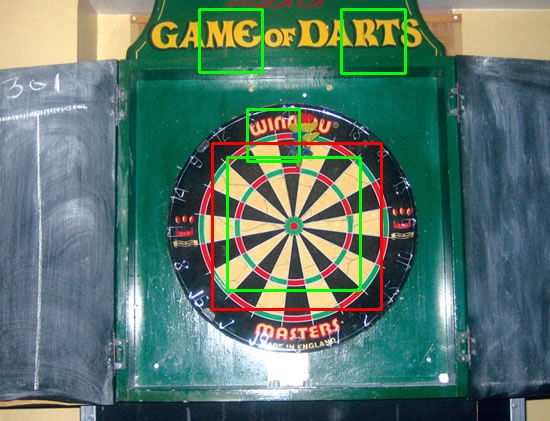
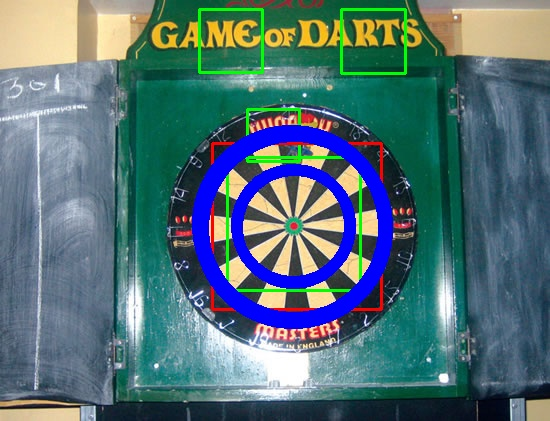
hough circle detection added
hough circle detection added

Changed region(s): [[0.34, 0.2779, 0.7418, 0.8029]]

diff --git a/dart.py b/dart.py
@@ -3,6 +3,7 @@ import cv2
 import os
 import sys
 import argparse
+import math
 
 parser = argparse.ArgumentParser(description='dart detection')
 parser.add_argument('-name', '-n', type=str, default='Dartboard/dart0.jpg')
@@ -91,7 +92,123 @@ def click_event(event, x, y, flags, param):
         print(f'Coordinates: ({x}, {y})')
 
 
+def sobel_x(input):
+    sobelxOutput = np.zeros((input.shape[0], input.shape[1]), dtype=np.float32)
+    kernel = np.array([[-1, 0, 1], [-2, 0, 2], [-1, 0, 1]])
+    kernelRadiusX = 1
+    kernelRadiusY = 1
+    paddedInput = cv2.copyMakeBorder(input, kernelRadiusX, kernelRadiusX, kernelRadiusY, kernelRadiusY,
+                                     cv2.BORDER_REPLICATE)
+
+    for i in range(0, input.shape[0]):
+        for j in range(0, input.shape[1]):
+            patch = paddedInput[i:i + 3, j:j + 3]
+            sum = (np.multiply(patch, kernel)).sum()
+            sobelxOutput[i, j] = sum
+
+    return sobelxOutput
+
+
+def sobel_y(input):
+    sobelyOutput = np.zeros((input.shape[0], input.shape[1]), dtype=np.float32)
+    kernel = np.array([[-1, -2, -1], [0, 0, 0], [1, 2, 1]])
+    kernelRadiusX = 1
+    kernelRadiusY = 1
+    paddedInput = cv2.copyMakeBorder(input, kernelRadiusX, kernelRadiusX, kernelRadiusY, kernelRadiusY,
+                                     cv2.BORDER_REPLICATE)
+
+    for i in range(0, input.shape[0]):
+        for j in range(0, input.shape[1]):
+            patch = paddedInput[i:i + 3, j:j + 3]
+            sum = (np.multiply(patch, kernel)).sum()
+            sobelyOutput[i, j] = sum
+
+    return sobelyOutput
+
+
+def gradient_mag(input):
+    x = sobel_x(input)  # Assuming sobel_x(input) correctly computes the x-direction gradient
+    y = sobel_y(input)  # Assuming sobel_y(input) correctly computes the y-direction gradient
+    result = np.sqrt(x ** 2 + y ** 2)  # Calculate the magnitude of the gradient
+    return result
+
+
+def gradient_ori(input):
+    x = sobel_x(input)  # Assuming sobel_x(input) correctly computes the x-direction gradient
+    y = sobel_y(input)
+    result = np.arctan2(y, x + math.exp(-10))
+    # Normalize the result to the range [0, 255]
+    # normalized_result = ((result - result.min()) / (result.max() - result.min())) * 255
+    # Convert the result to uint8 data type for visualization
+    # result_float32 = normalized_result.astype(np.float32)
+    # change_to_pi= (result/180)*math.pi
+    return result
+
+
+def thresholdPixel(input, ts):
+    for i in range(0, input.shape[0]):
+        for j in range(0, input.shape[1]):
+            if input[i][j] > ts:
+                input[i][j] = 255
+            else:
+                input[i][j] = 0
+    return input
+
+
+def hough_circle_detection(gradient_magnitude, gradient_orientation, ts, th, min_radius, max_radius):
+    # Step 1: Threshold the gradient magnitude image.
+    thresholded_image = thresholdPixel(gradient_magnitude, ts)
+
+    # Step 2: Create a 3D Hough Space array.
+    hough_space = np.zeros((gradient_magnitude.shape[0], gradient_magnitude.shape[1], max_radius - min_radius + 1),
+                           dtype=np.uint32)
+
+    # Step 3: Voting in Hough Space.
+    for y in range(gradient_magnitude.shape[0]):
+        for x in range(gradient_magnitude.shape[1]):
+            if thresholded_image[y, x] != 0:
+                for radius in range(min_radius, max_radius + 1):
+                    center_x = int(x + radius * np.cos(gradient_orientation[y, x]))
+                    center_y = int(y + radius * np.sin(gradient_orientation[y, x]))
+
+                    if 0 <= center_x < gradient_magnitude.shape[1] - radius and 0 <= center_y < \
+                            gradient_magnitude.shape[0] - radius:
+                        hough_space[center_y, center_x, radius - min_radius] += 1
+
+                    center_x0 = int(x - radius * np.cos(gradient_orientation[y, x]))
+                    center_y0 = int(y - radius * np.sin(gradient_orientation[y, x]))
+                    if 0 <= radius <= center_x0 < gradient_magnitude.shape[1] - radius and 0 <= radius <= center_y0 < \
+                            gradient_magnitude.shape[0] - radius:
+                        hough_space[center_y0, center_x0, radius - min_radius] += 1
+    # Step 4: Thresholding the Hough Space.
+    thresholded_hough = np.zeros((hough_space.shape[0], hough_space.shape[1], hough_space.shape[2]), dtype=np.uint32)
+    for y in range(hough_space.shape[0]):
+        for x in range(hough_space.shape[1]):
+            for z in range(hough_space.shape[2]):
+                if hough_space[y, x, z] > th:
+                    thresholded_hough[y, x, z] = 1
+
+    # Step 5: Find circle centers.
+    centers = np.argwhere(thresholded_hough == 1)
+    detected_circles = []
+    for center in centers:
+        detected_circles.append((center[0], center[1], center[2] + min_radius))
+
+    # Step 6: Display the Hough Space.
+    hough_space_sum = np.sum(hough_space, axis=2)
+
+    # Step 7: Overlay detected circles on the original image.
+    # for circle in detected_circles:
+    #     cv2.circle(frame, (circle[1], circle[0]), circle[2], (255, 0, 0), 2)
+
+    return thresholded_image, hough_space_sum, detected_circles
+
+
+
+
+
 # ==== MAIN ==============================================
+
 for i in range(0, 16):
     imageName = f'Dartboard/dart{i}.jpg'
     imageNameEdit = imageName.split('/')[-1].split('.')[0]
@@ -121,7 +238,6 @@ for i in range(0, 16):
     iou_threshold = 0.5  # Set threshold value
     ground_truth_boxes = []  # Replace with your list of ground truth bounding boxes
 
-
     # Extract the detected boxes for the current image
     print('Image :' + imageNameEdit)
     detected_boxes = detectAndDisplay(frame)
@@ -146,7 +262,7 @@ for i in range(0, 16):
         if best_box is not None:
             best_matches[m] = best_box
 
-    # Now, best_matches contains each ground truth box matched with the best detected box
+    # best_matches contains each ground truth box matched with the best detected box
     for gt_index, box in best_matches.items():
         print(f"Ground truth box {ground_truth_boxes[gt_index]} best matched with detected box {box} with IOU: "
               f"{calculate_iou(box, ground_truth_boxes[gt_index])}")
@@ -161,12 +277,55 @@ for i in range(0, 16):
     precision = true_positives / (true_positives + false_positives + 0.1)
     recall = TPR  # Recall is the same as TPR
 
+    # F1 score
     F1_score = 2 * (precision * recall) / ((precision + recall) + 0.1)
     print(f"F1 score: {F1_score}")
     print("\n")
-    # Save the image
-    filename = f"Result_Image/result{i}.jpg"  # This creates the filename string
-    cv2.imwrite(filename, frame)  # This saves the image
+
+    resultName = f"Result_Image/result{i}.jpg"
+    filenameForThreshold = f"Result_Image/thresholded_image{i}.jpg"
+
+    #cv2.imwrite(resultName, frame)
+
+
+
+
+
+    # Hough Circle Detection##############################################
+    # Read Input Image from source
+    frame_circle = cv2.imread(imageName, 1)
+
+    if not (type(frame_circle) is np.ndarray):
+        print('Not image data')
+        sys.exit(1)
+
+    gray_image = cv2.cvtColor(frame_circle, cv2.COLOR_BGR2GRAY)
+    gray_image = gray_image.astype(np.float32)
+    gray_image = cv2.GaussianBlur(gray_image, (5, 5), 0)
+    gradient_magnitude = gradient_mag(gray_image)
+    gradient_orientation = gradient_ori(gray_image)
+    ts = 150
+    th = 15
+    min_radius = 40
+    max_radius = 240
+
+    # cv2.imwrite("grayimage.jpg", gray_image)
+
+    # cv2.imwrite("gradient_magnitude.jpg", gradient_magnitude)
+    # cv2.imwrite("gradient_orientation.jpg", gradient_orientation)
+    thresholded_image, hough_space_sum, detectedCircles = hough_circle_detection(gradient_magnitude, gradient_orientation, ts, th,
+                                                                     min_radius, max_radius)
+
+    for circle in detectedCircles:
+      cv2.circle(frame, (circle[1], circle[0]), circle[2], (255, 0, 0), 2)
+    cv2.imwrite(filenameForThreshold, thresholded_image)
+    # hough_space_sum = hough_space_sum.astype(np.uint8)
+    # cv2.imwrite("hough_space_sum.jpg", hough_space_sum)
+
+    cv2.imwrite(resultName, frame)
+
+
+    # This saves the image
     # cv2.namedWindow('image')  # Name the window
     # # cv2.setMouseCallback('image', click_event)
     # cv2.imshow('image', frame)
